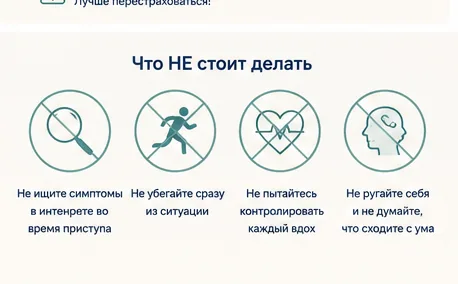
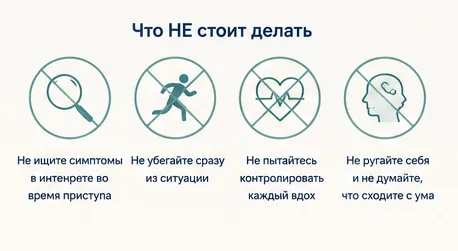
Fix panic-notdo crop: panel top is at y=760 (infarkt panel is taller)
The previous crop started 30px too high and included the infarkt panel's
bottom note. Cut exactly at the white gutter for that column.

diff --git a/blog/panicheskaya-ataka-chto-delat.html b/blog/panicheskaya-ataka-chto-delat.html
@@ -173,7 +173,7 @@
     <li>не думайте, что сходите с ума — паника этого не означает.</li>
   </ul>
   <figure class="narrow">
-    <img src="../assets/blog/panic-notdo.webp" alt="Что не стоит делать во время панической атаки" width="458" height="284" loading="lazy">
+    <img src="../assets/blog/panic-notdo.webp" alt="Что не стоит делать во время панической атаки" width="458" height="251" loading="lazy">
   </figure>
 
   <div class="cta-box">